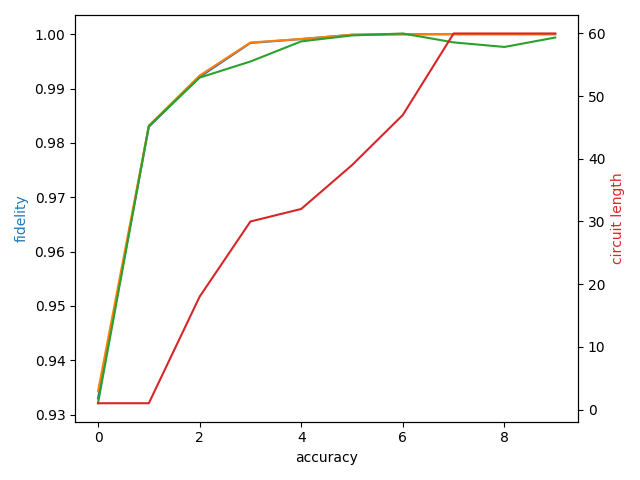
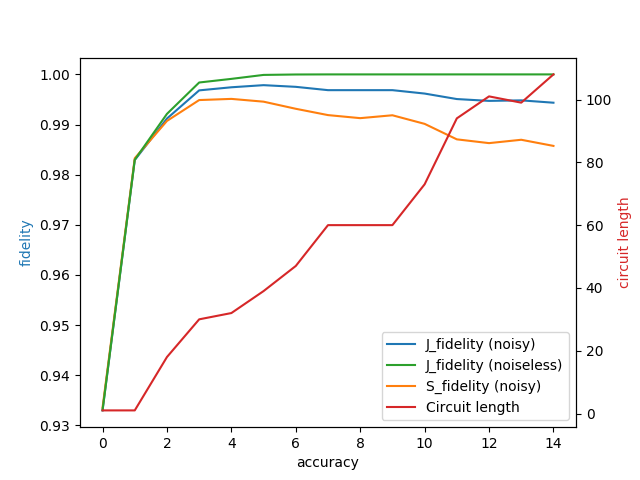
plotted noiseless fidelity (J) as well

diff --git a/where_to_stop.py b/where_to_stop.py
@@ -25,6 +25,7 @@ end = time.time()
 print("The best accuracy for J was: " + str(max(range(max_acc), key=lambda x: J_fidelities[x])))
 print("It took " + str(end-start) + " seconds")
 
+J_noiseless = [J_fidelity.f_pro_experimental(c, U) for c in circuits]
 
 # This may take a few seconds
 start = time.time()
@@ -34,21 +35,21 @@ print("The best accuracy for S was: " + str(max(range(max_acc), key=lambda x: S_
 print("It took " + str(end-start) + " seconds")
 
 # This will take several minutes
-start = time.time()
-J_simulated = [J_fidelity.f_pro_simulated(c, U, p1, gamma1, gamma2) for c in circuits]
-end = time.time()
-print("The best accuracy for simulation was: " + str(max(range(max_acc), key=lambda x: J_simulated[x])))
-print("It took " + str(end-start) + " seconds")
+# start = time.time()
+# J_simulated = [J_fidelity.f_pro_simulated(c, U, p1, gamma1, gamma2) for c in circuits]
+# end = time.time()
+# print("The best accuracy for simulation was: " + str(max(range(max_acc), key=lambda x: J_simulated[x])))
+# print("It took " + str(end-start) + " seconds")
 
 fig, ax1 = plt.subplots()
 lineJ, = ax1.plot(J_fidelities)
 lineS, = ax1.plot(S_fidelities)
-lineJ_sim, = ax1.plot(J_simulated)
+#lineJ_sim, = ax1.plot(J_simulated)
+lineJ2, = ax1.plot(J_noiseless)
 ax1.set_ylabel('fidelity', color='tab:blue')
 ax1.set_xlabel('accuracy')
 ax2 = ax1.twinx()
 line_length, = ax2.plot([len(c) for c in circuits], color='tab:red')
 ax2.set_ylabel('circuit length', color='tab:red')
-ax1.legend((lineJ, lineS, lineJ_sim, line_length), ("J_fidelity (theoretical)", "S_fidelity (theoretical)", "J_fidelity (simulated)", "Circuit length"))
-fig.tight_layout()
+ax1.legend((lineJ, lineJ2, lineS, line_length), ("J_fidelity (noisy)", "J_fidelity (noiseless)", "S_fidelity (noisy)", "Circuit length"))
 plt.savefig("out.png")
